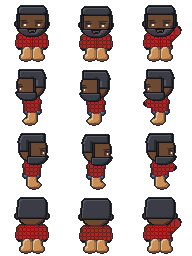
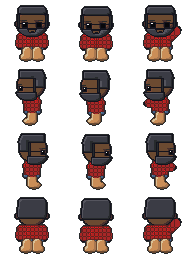
Joseph Halden gets blacked-out shades; Tasha Reid moves onto the running track
Joseph's walk and action sheets get blacked-out sunglasses with a small
white glare on one lens (front and side views; the back view is
unchanged). The sheets were edited in place and the same files were
copied to the shared art folder, so a fresh art import keeps them.

Tasha Reid moves from beside the Running Club (40, 32) to the top
straight of the running track (32, 27), where Boss marked, so she is
easier to find on the map.

Claude-Session: https://claude.ai/code/session_01NrCmSXRnLR4uwKE15SL5yc

diff --git a/README.md b/README.md
@@ -178,7 +178,7 @@ Markers come from `story.json` and the maps' doors and exits, so a new step need
 ### Fitness training (Boss, 29 Oct 2026)
 
 - **Strength:** bodyweight drills on the exercise mat in your room. It's a rep timing bar: tap as the marker crosses the green zone.
-- **Endurance:** running sessions with **Tasha Reid**, the running coach by the Running Club pavilion. Hold to run faster and keep your pace in the green band for each lap split.
+- **Endurance:** running sessions with **Tasha Reid**, the running coach, on the running track by the Running Club pavilion (moved there so she is easy to find, Boss, 30 Oct 2026). Hold to run faster and keep your pace in the green band for each lap split.
 - **Agility:** comes from walking about, 1 XP every 10 tiles.
 - **How rounds work:** a round lasts about 40 seconds, can't be failed and gives 50 XP whatever the score (`training.json`, `src/core/training.ts`).
 - **In races** (`racing.json` `sim.fitness`), at level 99:
